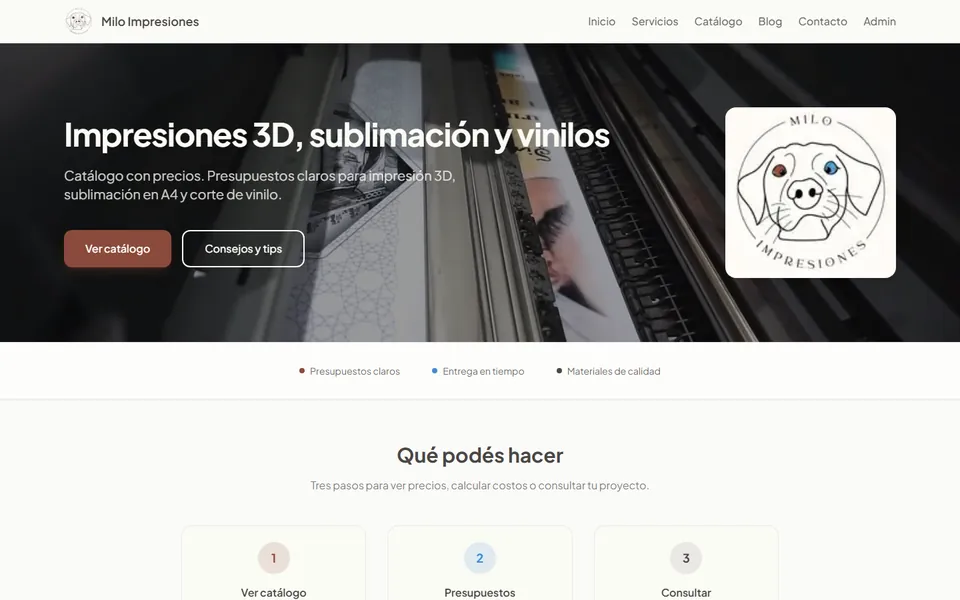
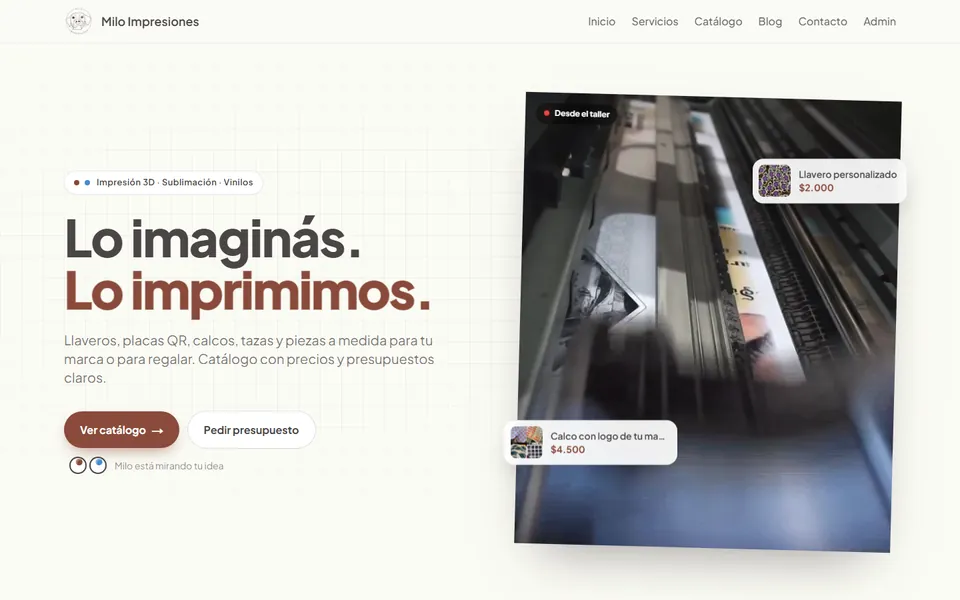
Trabajos: capturas nuevas de Milo, Proyecto Marte y la Pizzería

diff --git a/index.html b/index.html
@@ -289,7 +289,7 @@ footer .wrap{display:flex;flex-wrap:wrap;justify-content:space-between;gap:12px;
           <div><span class="kind">Landing + sistema de gestión</span><h3>Jardinería 2.0</h3>
           <p>Primero la página para conseguir clientes; después el sistema para atenderlos: agenda de trabajos, cobros, finanzas y equipo con permisos por pantalla.</p></div>
           <a href="https://jardineriasf.netlify.app/" target="_blank" rel="noopener">Ver landing <span aria-hidden="true">↗</span></a></li>
-        <li><img class="shot" src="img/milo.webp" width="960" height="600" loading="lazy" alt="Página de inicio de Milo Impresiones">
+        <li><img class="shot" src="img/milo.webp" width="960" height="600" loading="lazy" alt="Portada de Milo Impresiones: Lo imaginás, lo imprimimos">
           <div><span class="kind">Sitio + sistema · pyme</span><h3>Milo Impresiones</h3>
           <p>Catálogo online para un taller de impresión 3D y sublimación, con panel de pedidos, stock y clientes, y una calculadora que arma el precio según material, tiempo y margen.</p></div>
           <span class="soon">Demo a pedido</span></li>
@@ -305,9 +305,9 @@ footer .wrap{display:flex;flex-wrap:wrap;justify-content:space-between;gap:12px;
           <div><span class="kind">Demo · gastronomía</span><h3>Pizzería Don César</h3>
           <p>Menú online con el pedido armado que llega al WhatsApp del local. La rehice de cero: arrastrá la imagen para comparar.</p></div>
           <a href="https://pagepizzeria.netlify.app" target="_blank" rel="noopener">Ver online <span aria-hidden="true">↗</span></a></li>
-        <li><img class="shot" src="img/nasa.webp" width="748" height="468" loading="lazy" alt="Certificado Galactic Problem-Solver del NASA International Space Apps Challenge 2022 a nombre de Mariano Salvador Vatri">
+        <li><img class="shot" src="img/marte.webp" width="960" height="600" loading="lazy" alt="Sitio de Proyecto Marte con el planeta rojo y la hora marciana en vivo">
           <div><span class="kind">NASA Space Apps Challenge 2022</span><h3>Proyecto Marte</h3>
-          <p>En un fin de semana de competencia, una propuesta para equipar un hábitat sostenible en Marte. Con este trabajo recibí el certificado Galactic Problem-Solver de la NASA.</p></div>
+          <p>En un fin de semana de competencia, una propuesta para equipar un hábitat en Marte con piezas impresas en 3D. Hoy tiene visor 3D de cada pieza y la hora marciana en vivo. Con este trabajo recibí el certificado Galactic Problem-Solver de la NASA.</p></div>
           <a href="https://marsproyect.netlify.app/" target="_blank" rel="noopener">Ver proyecto <span aria-hidden="true">↗</span></a></li>
       </ul>
     </div></div>
